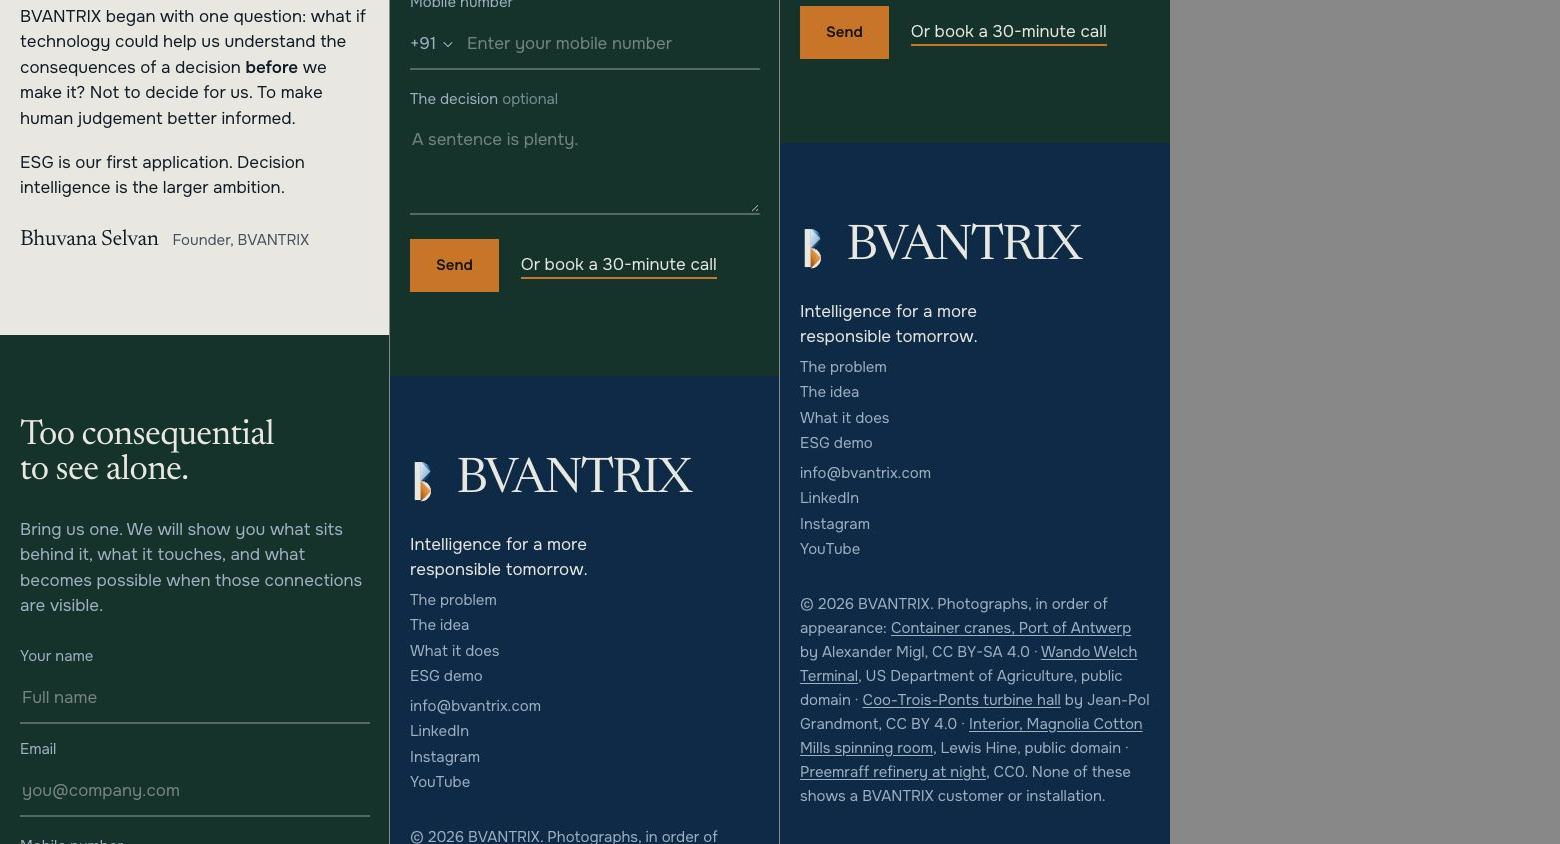
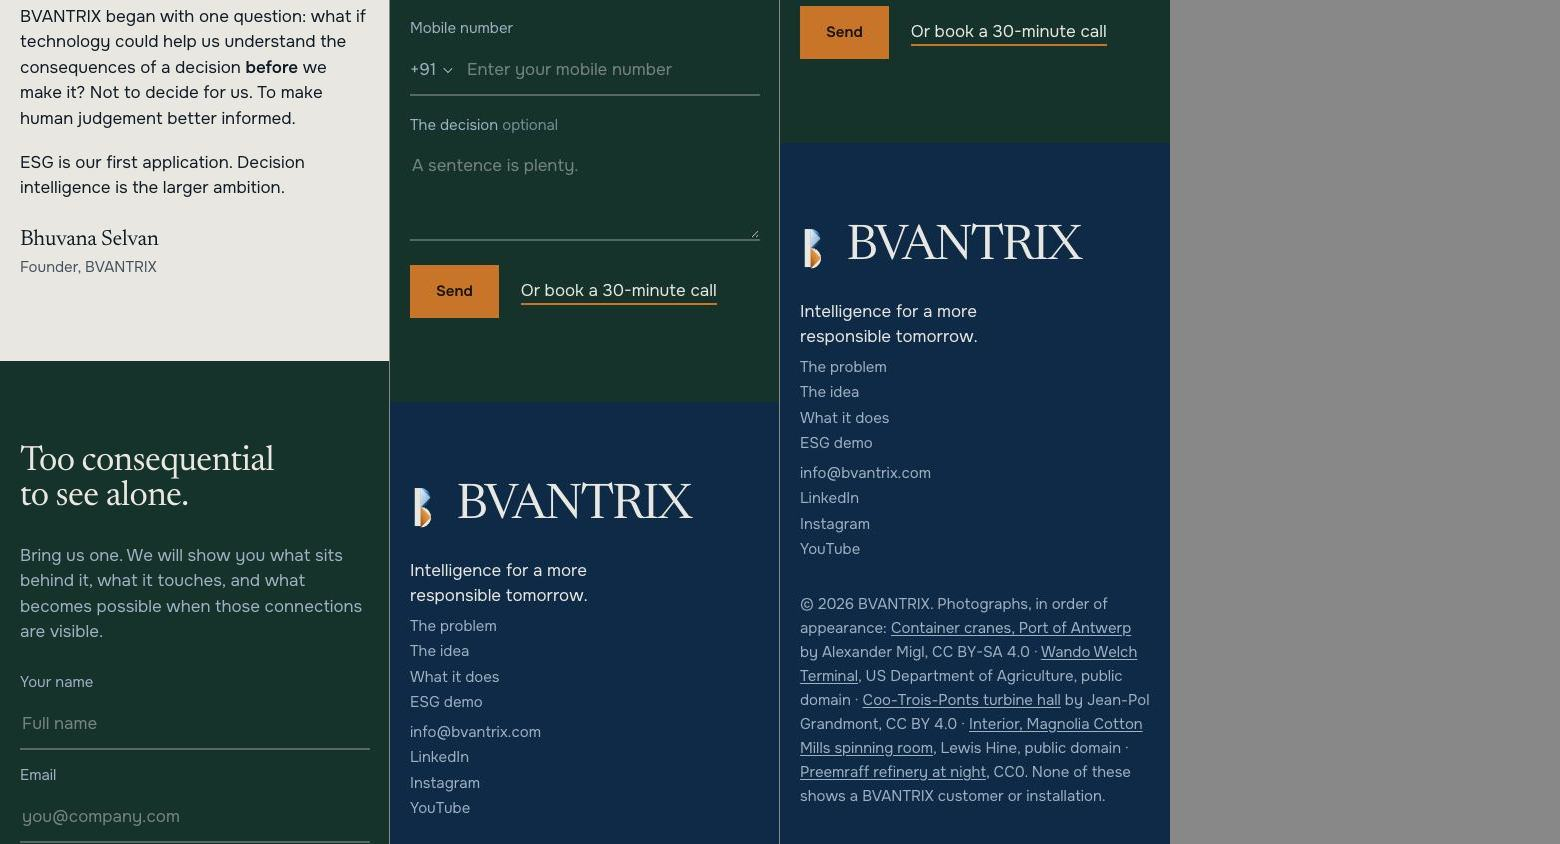
Stack the founder's name above the role
The byline was a flex row, so "Bhuvana Selvan" and "Founder, BVANTRIX"
sat side by side on one line. Now the name is on its own line with the
role beneath it, both on the same left edge, 7px apart. Verified at
1440px and 375px.

diff --git a/css/style.css b/css/style.css
@@ -545,14 +545,15 @@ p { margin: 0; }
 
 .byline {
   margin-top: clamp(28px, 3vw, 44px);
-  display: flex; align-items: baseline; gap: 14px; flex-wrap: wrap;
+  /* the name on its own line, the role under it -- they were side by side */
+  display: grid; justify-items: start; gap: 7px;
 }
 .byline b {
   font-family: var(--display); font-weight: 400;
   font-size: var(--t-lead); line-height: 1;
   letter-spacing: -0.015em;
 }
-.byline span { font-size: var(--t-small); color: var(--ink-2); }
+.byline span { font-size: var(--t-small); color: var(--ink-2); line-height: 1.3; }
 
 /* --------------------------------------------------------------------------
    14. Contact

diff --git a/index.html b/index.html
@@ -25,7 +25,7 @@
 <link rel="preconnect" href="https://fonts.gstatic.com" crossorigin>
 <link rel="stylesheet" href="https://fonts.googleapis.com/css2?family=Newsreader:opsz,wght@6..72,300;6..72,400;6..72,500&family=Onest:wght@400;500;600&display=swap">
 <link rel="stylesheet" href="assets/scenes/stage.css">
-<link rel="stylesheet" href="css/style.css?v=11.5">
+<link rel="stylesheet" href="css/style.css?v=11.6">
 </head>
 <body>
 
